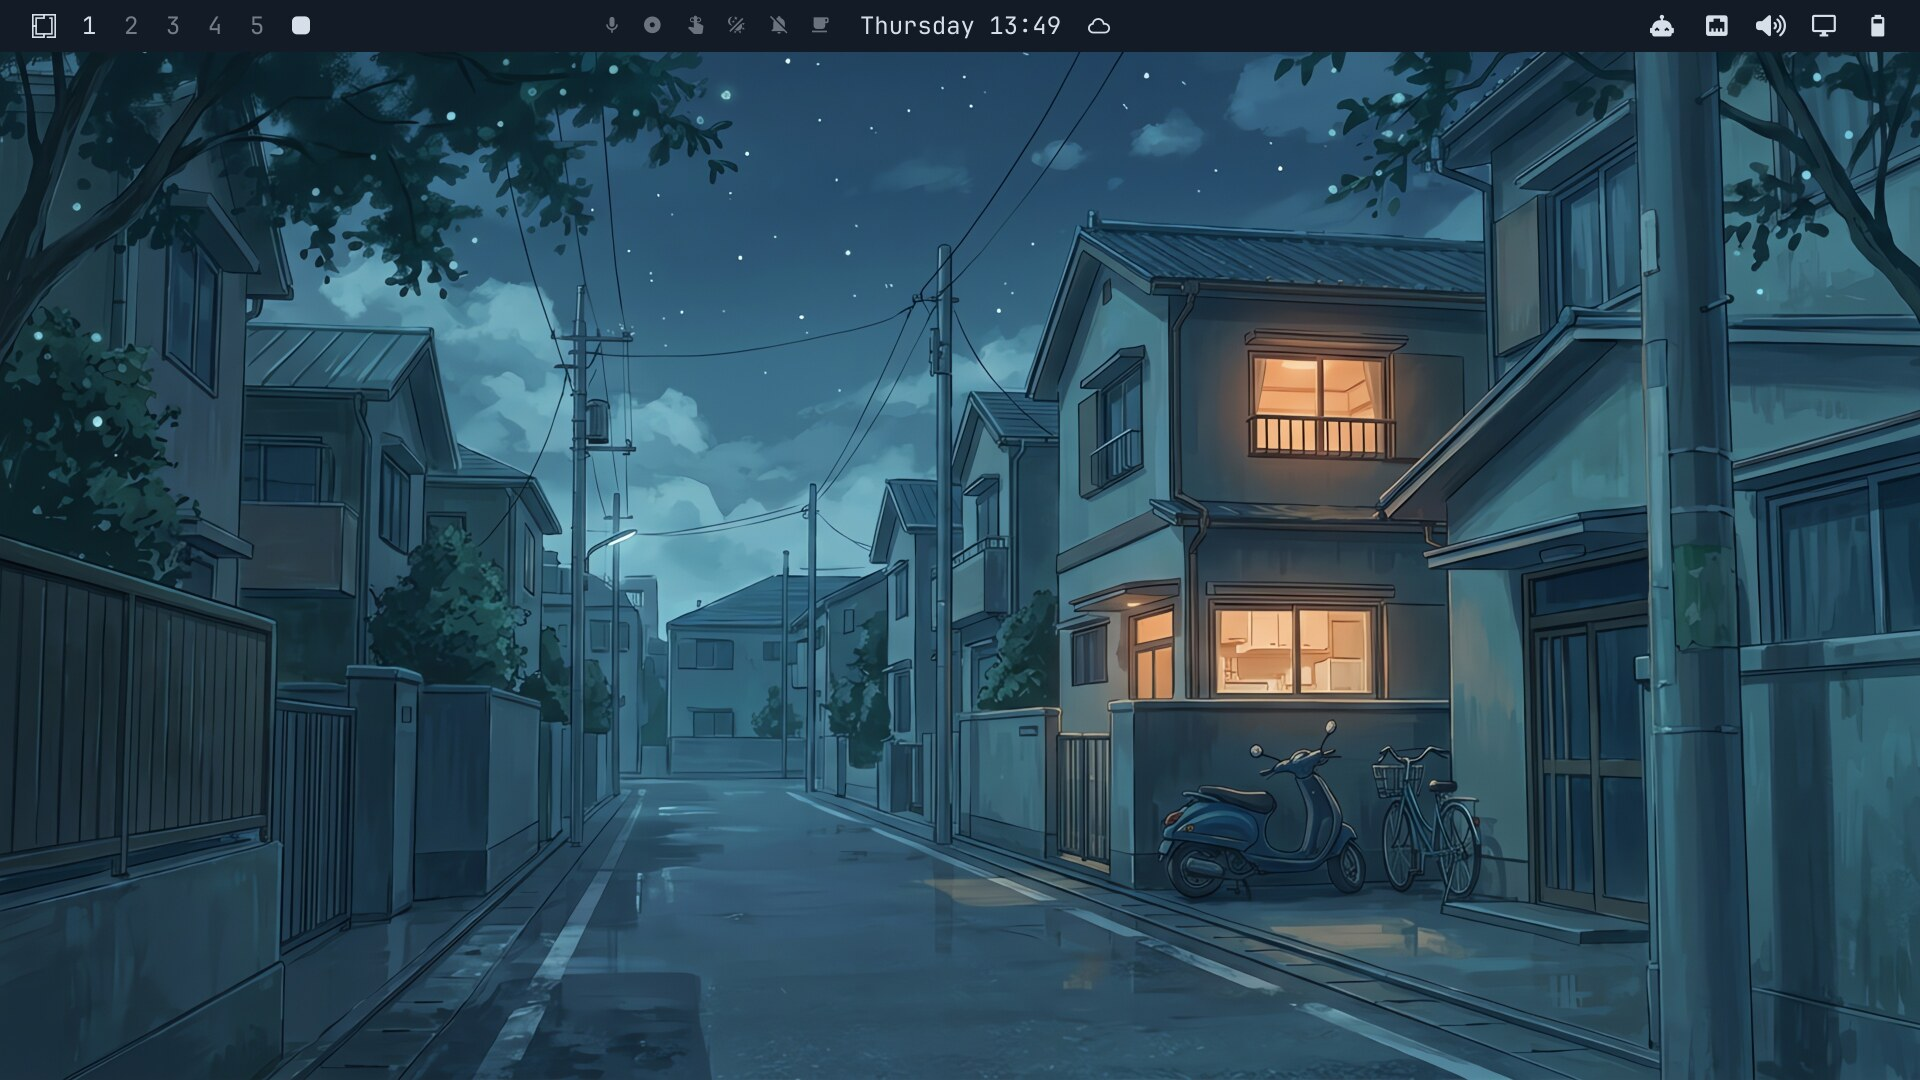
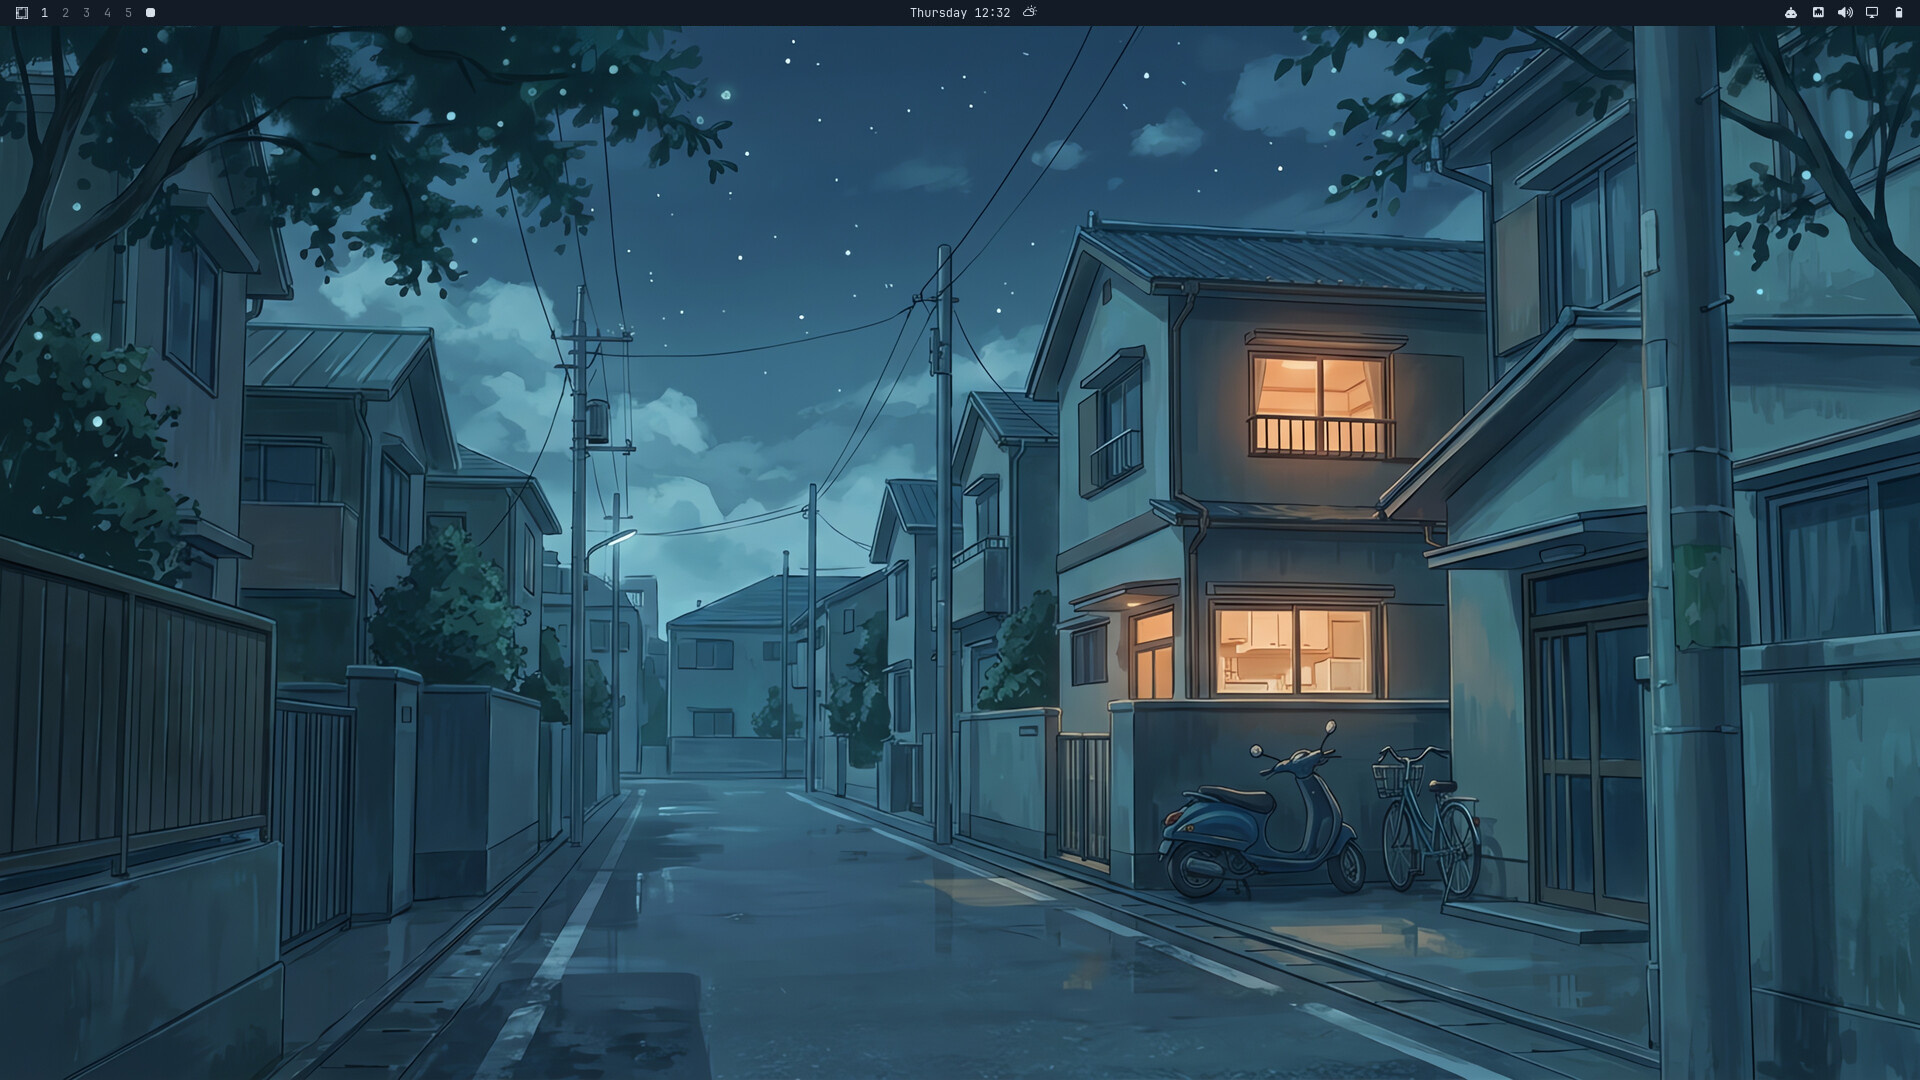
Polish Konbini: real Japanese signage, new away screen, lock gradient
- Repaint garbled AI signage with real Japanese: 止まれ stop sign,
  自転車通行可 plates, a さくら歯科 pole ad, 自動ドア door strips,
  たばこ shop sign, and clean up the Sunset Mart and 踏切注意 plates
- Redraw the away screen as the quiet lane from the third wallpaper
- Add shell.lock.toml: amber-to-blue gradient on the lock screen box
- Lighten brown to #A27E61 so every text color but muted clears WCAG AA
- Refresh desktop and lock screenshots, shrink preview.png losslessly
- Fix the themes page link, license name and license file list

Claude-Session: https://claude.ai/code/session_011rZ9FDFW94YN4K5eVwRHKK

diff --git a/README.md b/README.md
@@ -60,7 +60,7 @@ omarchy theme bg next
 | cyan       | ![#6FB4C7](https://placehold.co/16x16/6FB4C7/6FB4C7.png) | `#6FB4C7` |
 | blue       | ![#5C89C2](https://placehold.co/16x16/5C89C2/5C89C2.png) | `#5C89C2` |
 | magenta    | ![#A587A8](https://placehold.co/16x16/A587A8/A587A8.png) | `#A587A8` |
-| brown      | ![#8B6B52](https://placehold.co/16x16/8B6B52/8B6B52.png) | `#8B6B52` |
+| brown      | ![#A27E61](https://placehold.co/16x16/A27E61/A27E61.png) | `#A27E61` |
 
 Full values in [`colors.toml`](colors.toml).
 
@@ -82,15 +82,17 @@ the wet streets, foliage and skies instead of smoothing it away.
 
 The signage was repainted by hand after generation: real-world brand logos
 were replaced with the fictional Sunset Mart, and garbled AI text on the
-store signs, banners and crossing plates was replaced with real Japanese
-(24時間営業, おにぎり・お弁当, 踏切注意, 年中無休).
+store signs, banners, street signs and crossing plates was replaced with
+real Japanese (24時間営業, おにぎり・お弁当, 踏切注意, 年中無休, 止まれ,
+自転車通行可, 自動ドア, たばこ). Every sign says something you would actually
+see on a Japanese street.
 
 ## Lock screen
 
 Nothing to configure — Omarchy's lock screen automatically blurs whichever
-background is currently active and re-uses `hyprland_active_border` from
-`colors.toml` for the password box outline, so it always matches. You can
-safely preview it without actually locking your session:
+background is currently active, and `shell.lock.toml` gives the password box
+the same amber-to-blue gradient outline as your windows. You can safely
+preview it without actually locking your session:
 
 ```bash
 omarchy shell lock preview      # show it
@@ -99,9 +101,12 @@ omarchy shell lock hidePreview  # dismiss it
 
 ## Away screen (optional)
 
-Konbini ships an idle screensaver, `screensaver.txt`: a little night-street
-scene with the Sunset Mart, a streetlamp and the moon, drawn in by Omarchy's
-random text effects in place of the stock logo. Omarchy keeps the screensaver
+Konbini ships an idle screensaver, `screensaver.txt`: the quiet lane from
+`03-quiet-street.jpg` in solid blocks (houses, a power line, a crescent moon
+and stars), drawn in by Omarchy's text effects in place of the stock logo.
+It is 66×17, so it fits the screensaver terminal even on small HiDPI
+screens. Omarchy picks the effect and its colors at random each cycle;
+themes can't change those. Omarchy keeps the screensaver
 in your personal branding rather than in the theme, so it takes one step:
 
 ```bash
@@ -124,12 +129,14 @@ Preview it with `omarchy launch screensaver force`; any key ends it.
   glow
 - `shell.controls.toml` — amber focus and selected states for buttons, tabs
   and dropdowns in the Omarchy shell (the rest of the shell is generated)
+- `shell.lock.toml` — the amber-to-blue gradient on the lock screen's
+  password box
 - `unlock.png` / `preview-unlock.png` — an amber Omarchy logo for the boot /
   disk-unlock screen; pick it under **Menu → Style → Unlock**
 - `preview.png` — a real desktop screenshot (btop, neovim + neo-tree, and
   Files tiled together, matching the layout Omarchy's own stock themes use
   for their previews), shown in the Omarchy theme picker and on
-  [themes.omarchy.org](https://themes.omarchy.org)
+  [omarchy.org/themes](https://omarchy.org/themes/)
 - Everything else (terminal apps, bar, lock screen, etc.) is generated
   automatically by Omarchy from `colors.toml`. The palette is tuned for
   legibility: every text color clears WCAG AA (4.5:1) on the background
@@ -138,10 +145,11 @@ Preview it with `omarchy launch screensaver force`; any key ends it.
 
 ## License
 
-Code (`colors.toml`, `shell.controls.toml`) is MIT licensed — see
+The theme files (`colors.toml`, `icons.theme`, the `shell.*.toml` files,
+`screensaver.txt` and `extras/`) are MIT licensed — see
 [LICENSE](LICENSE). The background images are AI-generated (see
 [Backgrounds](#backgrounds)); feel free to use them as personal desktop
 backgrounds, but please don't resell them. The store names in the artwork are
 fictional.
 
-Made by [Lohan-Pieterse](https://github.com/Lohan-Pieterse).
+Made by Lohan Pieterse ([@Lohan-Pieterse](https://github.com/Lohan-Pieterse)).
